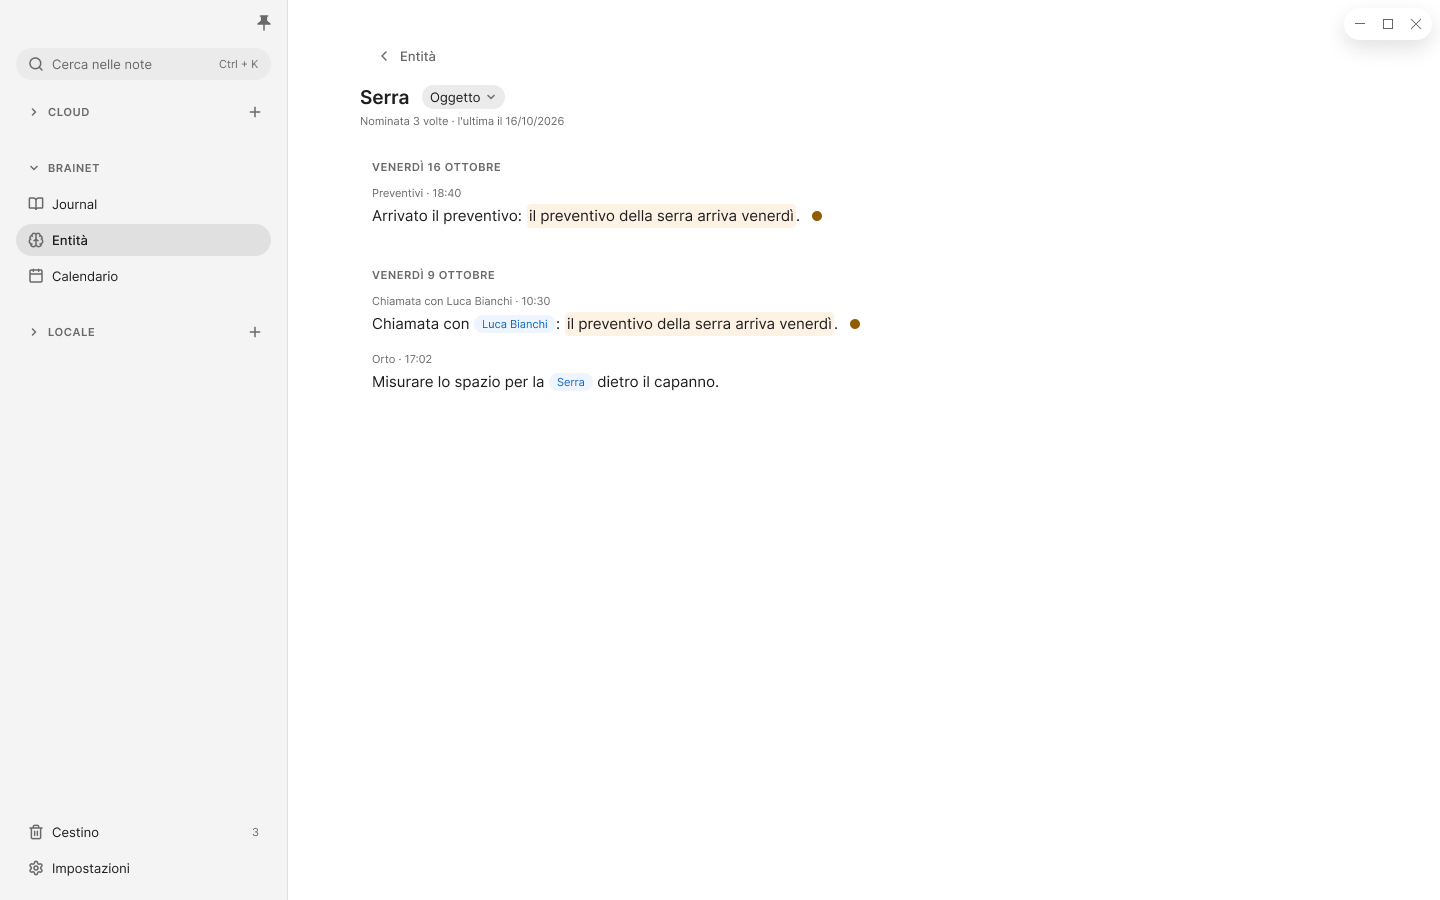
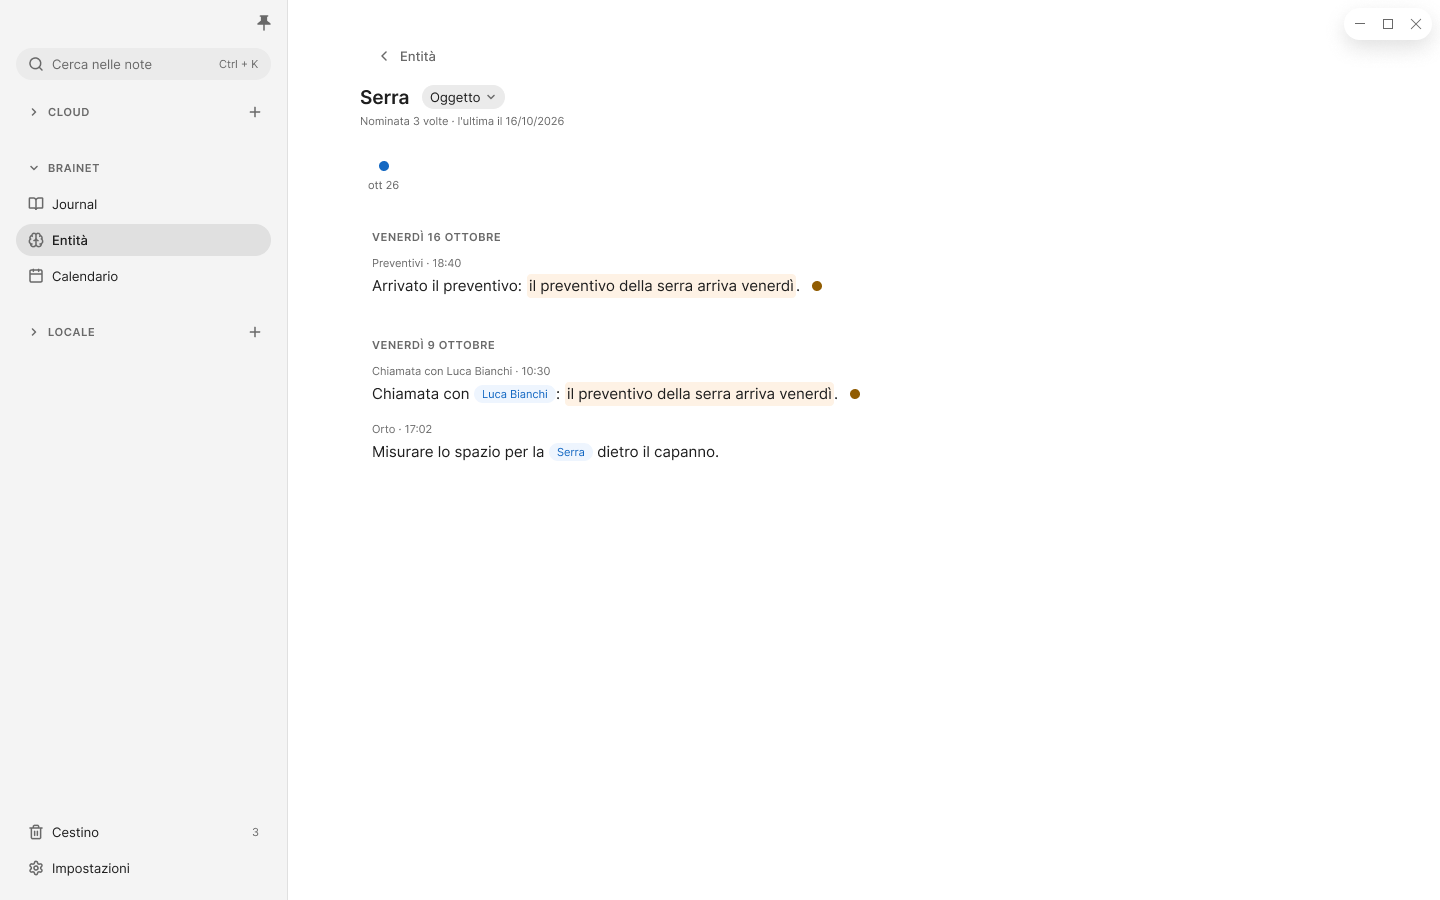
DEC-150: cronologia nel mockup della pagina dell'entità

Changed region(s): [[0.25, 0.1556, 0.5938, 0.4667], [0.25, 0.4978, 0.5, 0.5289], [0.3125, 0.1556, 0.3438, 0.1867]]

diff --git a/docs/avanzamento.md b/docs/avanzamento.md
@@ -22,7 +22,7 @@ Perimetro: note solo cloud più un editor di file locali non sincronizzati (DEC-
 | Vista della nota · 1.1.0 (DEC-129, DEC-130) | RF-02 (CA-02.2, CA-02.14 … CA-02.20), CA-17.25 | 1, 2, 3, 4, 5, 6, 7, 8 | Pronto per il rilascio, dopo la 1.0.0 (attività 1 … 5 fatte: il nucleo il 08/10/2026, le altre il 09/10/2026; prove a mano TC-10, TC-158 … TC-164 e TC-166 superate, TC-165 in prova automatica) | Su `main`; la 1.0.0 attende le prove sul Mac sul ramo `rilascio/1.0`. **Attività:** (1) nucleo: schema 7 con `vista`, note nuove in `markdown`, `cambia_vista`, sincronizzazione con RB-92, prove del nucleo (TC-165); (2) editor: compartimento Markdown in `Editor.tsx` con la resa da `anteprima.ts`, simboli atomici, ai bordi e Invio e Backspace come in Word, casella cliccabile (CA-02.2, CA-02.15 … CA-02.20); (3) interfaccia: riga Vista in Info con `SceltaSegmenti`, vista nella nota aperta, nella nota rapida e in Locale per estensione (CA-02.14, CA-17.25); (4) prove automatiche dell'interfaccia e lint; (5) prove a mano TC-10, TC-158 … TC-166, poi 9 – Rilascio della 1.1.0 |
 | Bollicina del formato (DEC-131) | RF-02 (CA-02.3 … CA-02.5, CA-02.21 … CA-02.25) | 1, 2, 3, 4, 5, 6, 7, 8 | Pronto per il rilascio, con la 1.1.0 | Su `main`, dopo la vista della nota. Sostituisce la pillola degli strumenti (CMP-10). Attività di sviluppo: 1) formato mostrato e comandi in `formati.ts`, `<u>` e `-[]` in `scrittura.ts`, con le prove automatiche (TC-172); 2) componente `Bollicina.tsx` e collegamento con l'editor; 3) nota aperta, nota rapida e file `.md`; 4) prove automatiche dell'interfaccia; 5) prove a mano (TC-12, TC-167 … TC-171, TC-173) |
 | Account nel database per la prova (DEC-132) | RF-14, RF-16, RF-10 | 1, 2, 3, 4, 5, 6, 7, 8 | 9 – Rilascio della 1.2.0, in coda dopo la 1.1.0 e la 1.0.0 | Fase 1 approvata da Manuel Cucca il 14/10/2026; Fase 2 approvata da Manuel Cucca il 14/10/2026: FL-08 aggiornato, FL-14 (cambio della password e recupero), FL-15 (dispositivi e chiusura a distanza), RB-97 … RB-100; creazione dell'account rinviata |
-| Brainet, la rete delle note (DEC-134, DEC-145, DEC-146, DEC-147) | RF-18 | Per DEC-147 (16/10/2026): 1 … 8 approvate da Manuel Cucca; codice fatto e prove automatiche superate (177 del nucleo, 352 dell'interfaccia); libreria pubblicata; mockup portati al Journal e Entità per tipo | Prove a mano rimaste (linguetta su una nota passata, prove di DEC-145 nel Journal, due computer); poi 9 – Rilascio | **DEC-147: le note nascono in CLOUD; «Sposta in Brainet» (senza ritorno) le porta nel Journal (DEC-148), fuori da albero e ricerca; pillole e aree solo lì.** Entità divisa per tipo (persone come un cast, eventi con il calendario, argomenti con la lampadina), approvata. Cronologia nella pagina dell'entità (DEC-150): libreria e codice fatti, mockup dopo la pubblicazione della libreria. In coda: le 14 domande dell'analisi sull'archivio di memoria, richieste di Manuel Cucca del 16/10/2026 |
+| Brainet, la rete delle note (DEC-134, DEC-145, DEC-146, DEC-147) | RF-18 | Per DEC-147 (16/10/2026): 1 … 8 approvate da Manuel Cucca; codice fatto e prove automatiche superate (177 del nucleo, 352 dell'interfaccia); libreria pubblicata; mockup portati al Journal e Entità per tipo | Prove a mano rimaste (linguetta su una nota passata, prove di DEC-145 nel Journal, due computer); poi 9 – Rilascio | **DEC-147: le note nascono in CLOUD; «Sposta in Brainet» (senza ritorno) le porta nel Journal (DEC-148), fuori da albero e ricerca; pillole e aree solo lì.** Entità divisa per tipo (persone come un cast, eventi con il calendario, argomenti con la lampadina), approvata. Cronologia nella pagina dell'entità (DEC-150): libreria, mockup e codice fatti. In coda: le 14 domande dell'analisi sull'archivio di memoria, richieste di Manuel Cucca del 16/10/2026 |
 | Should | RF-07, RF-09, RF-12, RF-13, RF-16 | — | 1 – Requisiti | Mancano gli scenari d'uso |
 
 ### Idee parcheggiate

diff --git a/docs/registri/storico.md b/docs/registri/storico.md
@@ -729,3 +729,4 @@
 | 16/10/2026 | Manuel Cucca | Mockup: cancellate le schermate superate «titolo modificato nel percorso» e «nota nuova vuota» di prima della bollicina, collegamenti segnati «rimosso»; approvate le proposte dell'agente per DEC-147, i mockup e l'aspetto delle entità per tipo («ok tutto vai avanti») | DEC-147 |
 | 16/10/2026 | Manuel Cucca | Mockup di Brainet portati a DEC-147: pillole, aree e allegati nel Journal, voce Journal nella colonna di tutte le schermate, Entità per tipo anche in scelta del tipo, tasto destro (con «Tipo ›»), unione; didascalie e 21 esportazioni aggiornate (fatto dall'agente) | DEC-147 |
 | 16/10/2026 | Manuel Cucca | Cronologia nella pagina dell'entità: RB-133, CA-18.51, TC-250, FL-26, SC-13, nuovo CMP-47, guida per gli utenti e note di rilascio (scelta di Manuel Cucca, dettagli proposti dall'agente) | DEC-150 |
+| 16/10/2026 | Manuel Cucca | Mockup della pagina dell'entità con la cronologia ed esportazione SC-13 aggiornata (fatto dall'agente) | DEC-150 |
